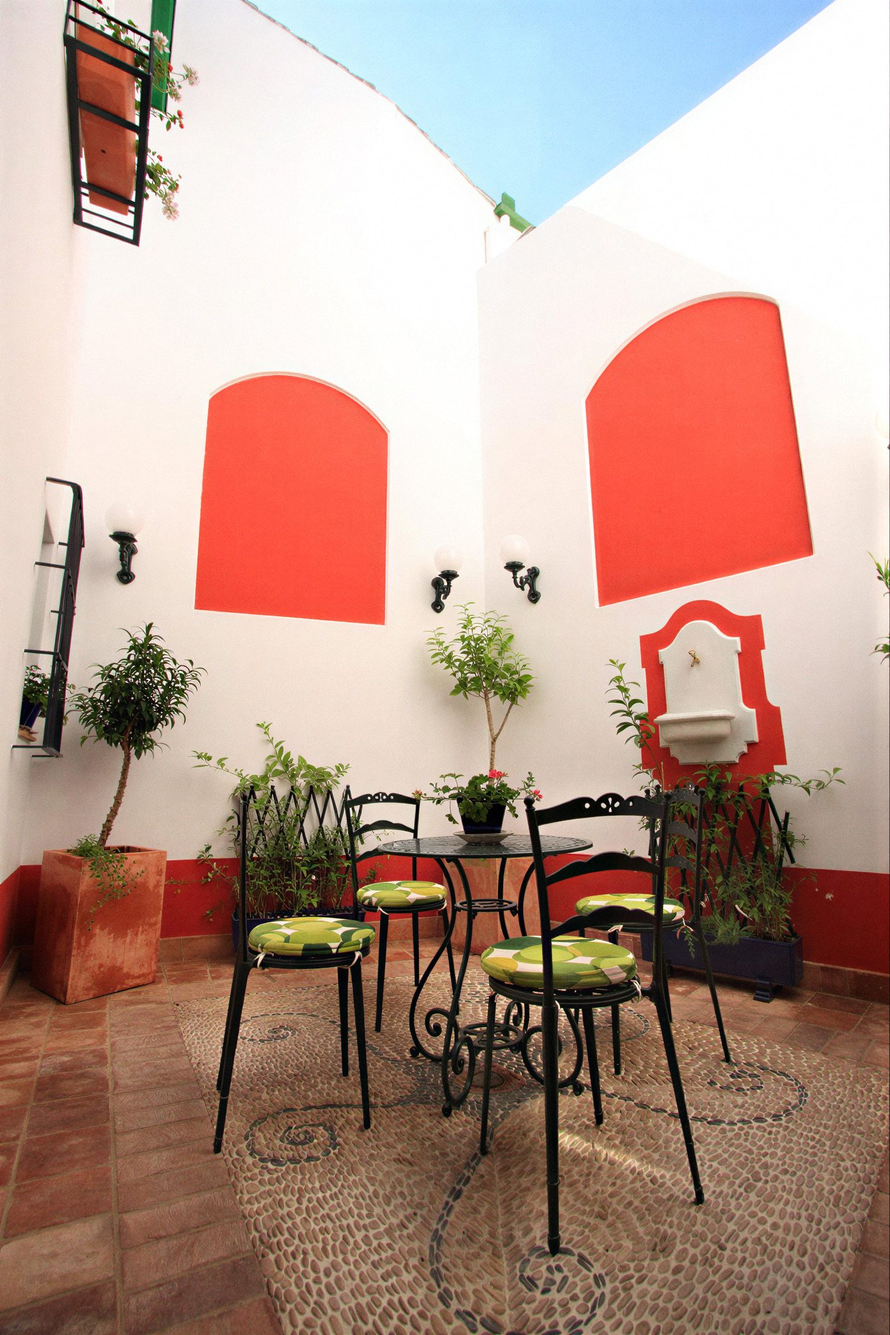
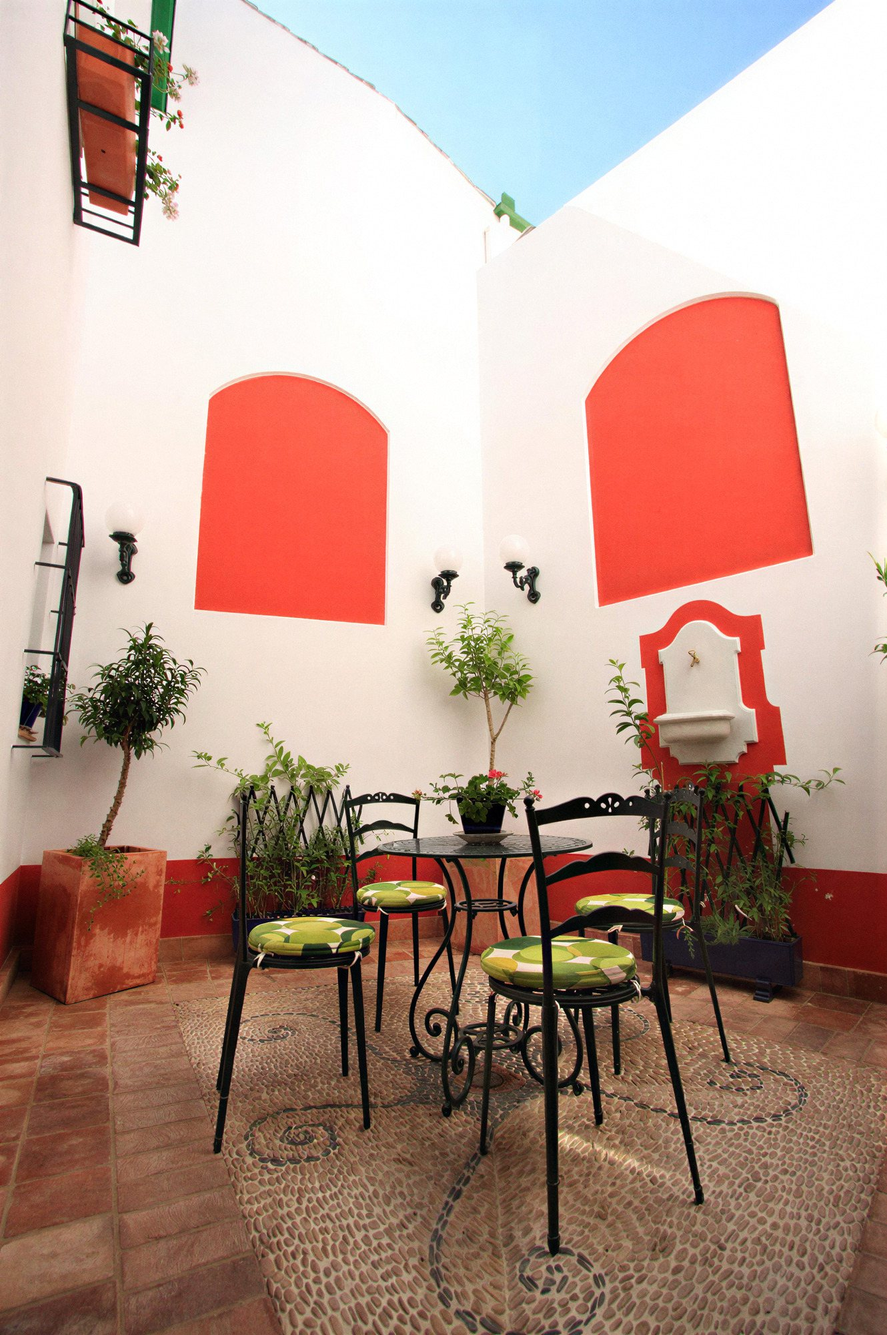
Add files via upload

diff --git a/index.html b/index.html
@@ -469,49 +469,99 @@ const FONTS = {
   'Newsreader + Hanken (actual)': { serif: "'Newsreader',Georgia,serif", sans: "'Hanken Grotesk',system-ui,sans-serif", sw: 300, track: '-.025em' },
 };
 const EN = {
-  'La casa':'The house','Habitaciones':'Rooms','Baños & bienestar':'Baths & wellbeing','Experiencias':'Experiences','Reservar':'Book',
-  'Priego de Córdoba · Andalucía':'Priego de Córdoba · Andalusia','Vive tu':'Live your','propia':'own','historia.':'story.',
-  'Descubrir la casa':'Discover the house',
-  'Alojamiento y baños árabes en el Barrio de la Villa, casco histórico de Priego.':"Boutique stay and Arab baths in the Barrio de la Villa, Priego's historic quarter.",
-  '01 — La experiencia':'01 — The experience',
-  'Buscamos ese instante que permanece imborrable en la memoria. Por eso unimos':'We look for the moment that stays in the memory forever. That is why we bring together',
-  'la luz, el agua, los colores, los aromas y los sonidos':'light, water, colour, scent and sound','para crear un lugar con alma.':'to create a place with soul.',
-  'El color.':'Colour.','Cada habitación es única en decoración, en color e, incluso, en aroma.':'Every room is unique in its décor, its colour, even its scent.',
-  'El aroma.':'Scent.','La llave invisible que devuelve un momento vivido a la memoria.':'The invisible key that brings a moment back to mind.',
-  'El agua.':'Water.','Fría, templada y caliente. Cuidado para el cuerpo y para el alma.':'Cold, warm and hot. Care for body and soul.',
-  'Las sensaciones.':'Sensations.',
-  '02 — La casa':'02 — The house','Una casa con alma en el':'A house with soul in the',
-  'Entre muros llenos de historia y tradición, un lugar donde el pasado y el futuro se unen. Un alma que se manifiesta en las personas, en el trato, en el uso de energías renovables y en la responsabilidad social.':'Within walls full of history and tradition, a place where past and future meet. A soul you can feel in its people, in the way guests are looked after, in its use of renewable energy and in its social responsibility.',
-  'Atención sensacional':'Sensational care','Una experiencia única y personal para cada viajero, según sus gustos y aficiones.':'A unique, personal experience for every traveller, shaped around their tastes and interests.',
-  'Patios · Terraza · Piscina en la azotea':'Patios · Terrace · Rooftop pool',
-  '03 — Habitaciones':'03 — Rooms','Nueve habitaciones.':'Nine rooms.','Nueve historias.':'Nine stories.',
-  'Cada habitación es única y diferente en decoración, color e, incluso, en aroma. Todas con baño completo, climatización, internet e hilo musical.':'Each room is unique in décor, colour and even scent. All with private bathroom, air conditioning, internet and ambient music.',
-  'Historias de':'Stories of','Solidaridad':'Solidarity','Vitalidad':'Vitality','Pasión':'Passion','Sueños':'Dreams','Legado':'Legacy','Imaginación':'Imagination','Sostenibilidad':'Sustainability','Armonía':'Harmony',
-  '“La gota abre la piedra, no por su fuerza, sino por su constancia.”':'“A drop hollows the stone, not through strength, but through persistence.”',
-  '“Porque, a veces, también hay que vivir la vida despacio.”':'“Because sometimes life is meant to be lived slowly.”',
-  '“¿Cuál quieres que sea la llave que guarde tu felicidad?”':'“Which key would you like to keep your happiness?”',
-  'Descubrir las habitaciones':'Discover the rooms',
-  '04 — Baños árabes':'04 — Arab baths','Si el cuerpo tiene sed, quiere agua.':'When the body is thirsty, it wants water.','Si el alma tiene sed, quiere Casa Baños de la Villa.':'When the soul is thirsty, it wants Casa Baños de la Villa.',
-  'Un viaje del cuerpo y del alma que sigue la antigua filosofía de los hammam: aguas de distintas temperaturas, aromas y masajes, en una atmósfera creada para ti.':'A journey for body and soul that follows the ancient philosophy of the hammam: waters at different temperatures, scents and massage, in an atmosphere created for you.',
-  'El recorrido':'The circuit','Agua fría':'Cold water','Agua templada':'Warm water','Agua caliente':'Hot water',
-  'Baño turco':'Steam bath','El vapor que prepara el cuerpo para el descanso.':'Steam that prepares the body for rest.',
-  'Masajes &':'Massage &','aromaterapia':'aromatherapy','De 15 o 30 minutos, dentro del propio circuito.':'15 or 30 minutes, within the circuit itself.',
-  'Tetería':'Tea room','El aroma y el sabor del té, para terminar despacio.':'The scent and taste of tea, to finish slowly.',
-  'Sesiones de felicidad':'Sessions of happiness','de circuito':'circuit','Mañanas':'Mornings','Tardes':'Evenings','Todo el año':'All year round','Reserva previa · desde 14 años':'Booking required · ages 14+',
-  'Descubrir los baños':'Discover the baths',
-  'El corazón':'The heart','de Andalucía.':'of Andalusia.',
-  'En pleno Parque Natural de las Sierras Subbéticas. En el Barrio de la Villa te adentrarás en un laberinto de calles estrechas, acompañado por el aroma de las flores y el sonido del agua, que te guiará hasta la casa.':"In the heart of the Sierras Subbéticas Natural Park. In the Barrio de la Villa you'll wander a maze of narrow streets, with the scent of flowers and the sound of water guiding you to the house.",
-  'Sevilla':'Seville','Descubrir Priego':'Discover Priego',
-  '06 — Experiencias regalo':'06 — Gift experiences','Regala un momento':'Give a moment','para recordar.':'to remember.',
-  'Una estancia en la casa o una sesión de felicidad en los baños, para alguien especial.':'A stay at the house or a session of happiness in the baths, for someone special.',
-  'Regalar una experiencia':'Give an experience',
-  '07 — Libro de visitas':'07 — Guestbook','“Parece mentira que un hotel tan pequeño':'“Hard to believe that a hotel so small','sea tan grande.':'could be so big.',
-  'Eva, citando a Gloria Fuertes':'Eva, quoting Gloria Fuertes',
-  '“Ponerle nombre a cada habitación es un detalle que ya te contagia de su magia. La nuestra era la 7, Imaginación.”':'“Giving each room a name is a detail that already draws you into its magic. Ours was number 7, Imagination.”',
-  '“Si Priego es una joya, sin duda Casa Baños de la Villa es uno de sus engarces.”':'“If Priego is a jewel, Casa Baños de la Villa is surely one of its settings.”',
-  'Ven a vivir tu':'Come and live your','propia historia.':'own story.',
-  'Alojamiento y baños árabes':'Boutique stay & Arab baths','Visítanos':'Visit us','Contacto':'Contact','Síguenos':'Follow us','Tarifas':'Rates','Aviso legal':'Legal notice','Privacidad':'Privacy',
-  'Vive tu propia historia':'Live your own story',
+  "La casa": "The house",
+  "Habitaciones": "Rooms",
+  "Baños & bienestar": "Baths & wellness",
+  "Experiencias": "Experiences",
+  "Reservar": "Book",
+  "Priego de Córdoba · Andalucía": "Priego de Córdoba · Andalusia",
+  "Vive tu": "Live your",
+  "propia": "own",
+  "historia.": "story.",
+  "Descubrir la casa": "Discover the house",
+  "Alojamiento y baños árabes en el Barrio de la Villa, casco histórico de Priego.": "A boutique stay with Arab baths in the Barrio de la Villa, Priego's old quarter.",
+  "01 — La experiencia": "01 — The experience",
+  "Buscamos ese instante que permanece imborrable en la memoria. Por eso unimos": "We seek the kind of moment that stays with you forever. That's why we bring together",
+  "la luz, el agua, los colores, los aromas y los sonidos": "light, water, colour, scent and sound",
+  "para crear un lugar con alma.": "to create a place with a soul.",
+  "El color.": "Colour.",
+  "Cada habitación es única en decoración, en color e, incluso, en aroma.": "Every room is unique in its décor, its colour, even its scent.",
+  "El aroma.": "Scent.",
+  "La llave invisible que devuelve un momento vivido a la memoria.": "The invisible key that brings a moment flooding back.",
+  "El agua.": "Water.",
+  "Fría, templada y caliente. Cuidado para el cuerpo y para el alma.": "Cold, warm and hot. Care for body and soul.",
+  "Las sensaciones.": "Sensations.",
+  "02 — La casa": "02 — The house",
+  "Una casa con alma en el": "A house with a soul in the",
+  "Entre muros llenos de historia y tradición, un lugar donde el pasado y el futuro se unen. Un alma que se manifiesta en las personas, en el trato, en el uso de energías renovables y en la responsabilidad social.": "Within walls steeped in history and tradition, a place where past and future meet. Its soul lives in its people, in the way guests are looked after, in its use of renewable energy and in its commitment to social responsibility.",
+  "Atención sensacional": "Truly personal care",
+  "Una experiencia única y personal para cada viajero, según sus gustos y aficiones.": "A unique experience for every guest, tailored to their tastes and interests.",
+  "Patios · Terraza · Piscina en la azotea": "Patios · Terrace · Rooftop pool",
+  "03 — Habitaciones": "03 — Rooms",
+  "Nueve habitaciones.": "Nine rooms.",
+  "Nueve historias.": "Nine stories.",
+  "Cada habitación es única y diferente en decoración, color e, incluso, en aroma. Todas con baño completo, climatización, internet e hilo musical.": "Each room is one of a kind in décor, colour and even scent. All have an en-suite bathroom, air conditioning, Wi-Fi and ambient music.",
+  "Historias de": "Stories of",
+  "Solidaridad": "Solidarity",
+  "Vitalidad": "Vitality",
+  "Pasión": "Passion",
+  "Sueños": "Dreams",
+  "Legado": "Legacy",
+  "Imaginación": "Imagination",
+  "Sostenibilidad": "Sustainability",
+  "Armonía": "Harmony",
+  "“La gota abre la piedra, no por su fuerza, sino por su constancia.”": "“Water wears away stone, not through force, but through persistence.”",
+  "“Porque, a veces, también hay que vivir la vida despacio.”": "“Because sometimes, life is meant to be lived slowly.”",
+  "“¿Cuál quieres que sea la llave que guarde tu felicidad?”": "“Which key will you choose to keep your happiness safe?”",
+  "Descubrir las habitaciones": "Discover the rooms",
+  "04 — Baños árabes": "04 — Arab baths",
+  "Si el cuerpo tiene sed, quiere agua.": "When the body is thirsty, it longs for water.",
+  "Si el alma tiene sed, quiere Casa Baños de la Villa.": "When the soul is thirsty, it longs for Casa Baños de la Villa.",
+  "Un viaje del cuerpo y del alma que sigue la antigua filosofía de los hammam: aguas de distintas temperaturas, aromas y masajes, en una atmósfera creada para ti.": "A journey for body and soul, rooted in the ancient hammam tradition: waters at different temperatures, aromas and massage, in an atmosphere created just for you.",
+  "El recorrido": "The circuit",
+  "Agua fría": "Cold pool",
+  "Agua templada": "Warm pool",
+  "Agua caliente": "Hot pool",
+  "Baño turco": "Steam room",
+  "El vapor que prepara el cuerpo para el descanso.": "Steam that readies the body for rest.",
+  "Masajes &": "Massage &",
+  "aromaterapia": "aromatherapy",
+  "De 15 o 30 minutos, dentro del propio circuito.": "15 or 30 minutes, as part of the circuit.",
+  "Tetería": "Tea room",
+  "El aroma y el sabor del té, para terminar despacio.": "The aroma and taste of tea, for an unhurried finish.",
+  "Sesiones de felicidad": "Happiness sessions",
+  "de circuito": "circuit",
+  "Mañanas": "Mornings",
+  "Tardes": "Evenings",
+  "Todo el año": "All year round",
+  "Reserva previa · desde 14 años": "Advance booking · ages 14 and up",
+  "Descubrir los baños": "Discover the baths",
+  "El corazón": "The heart",
+  "de Andalucía.": "of Andalusia.",
+  "En pleno Parque Natural de las Sierras Subbéticas. En el Barrio de la Villa te adentrarás en un laberinto de calles estrechas, acompañado por el aroma de las flores y el sonido del agua, que te guiará hasta la casa.": "Set within the Sierras Subbéticas Natural Park. In the Barrio de la Villa, a maze of narrow streets awaits, where the scent of flowers and the sound of water will guide you to the house.",
+  "Sevilla": "Seville",
+  "Descubrir Priego": "Discover Priego",
+  "06 — Experiencias regalo": "06 — Gift experiences",
+  "Regala un momento": "Give a moment",
+  "para recordar.": "to remember.",
+  "Una estancia en la casa o una sesión de felicidad en los baños, para alguien especial.": "A stay at the house or a happiness session in the baths, for someone special.",
+  "Regalar una experiencia": "Gift an experience",
+  "07 — Libro de visitas": "07 — Guestbook",
+  "“Parece mentira que un hotel tan pequeño": "“It’s hard to believe a hotel so small",
+  "sea tan grande.": "could be so grand.",
+  "Eva, citando a Gloria Fuertes": "Eva, quoting Gloria Fuertes",
+  "“Ponerle nombre a cada habitación es un detalle que ya te contagia de su magia. La nuestra era la 7, Imaginación.”": "“Giving each room a name is a touch that casts its spell on you from the start. Ours was number 7, Imagination.”",
+  "“Si Priego es una joya, sin duda Casa Baños de la Villa es uno de sus engarces.”": "“If Priego is a jewel, Casa Baños de la Villa is surely one of its finest settings.”",
+  "Ven a vivir tu": "Come and live your",
+  "propia historia.": "own story.",
+  "Alojamiento y baños árabes": "Boutique stay & Arab baths",
+  "Visítanos": "Visit us",
+  "Contacto": "Contact",
+  "Síguenos": "Follow us",
+  "Tarifas": "Rates",
+  "Aviso legal": "Legal notice",
+  "Privacidad": "Privacy policy",
+  "Vive tu propia historia": "Live your own story",
 };
 const TITLE = { es: 'Casa Baños de la Villa · Alojamiento y baños árabes en Priego de Córdoba', en: 'Casa Baños de la Villa · Boutique stay & Arab baths in Priego de Córdoba, Andalusia' };
 const BOOK = { es: 'https://www.booking.com/hotel/es/casa-banos-de-la-villa.es.html', en: 'https://www.booking.com/hotel/es/casa-banos-de-la-villa.en-gb.html' };
